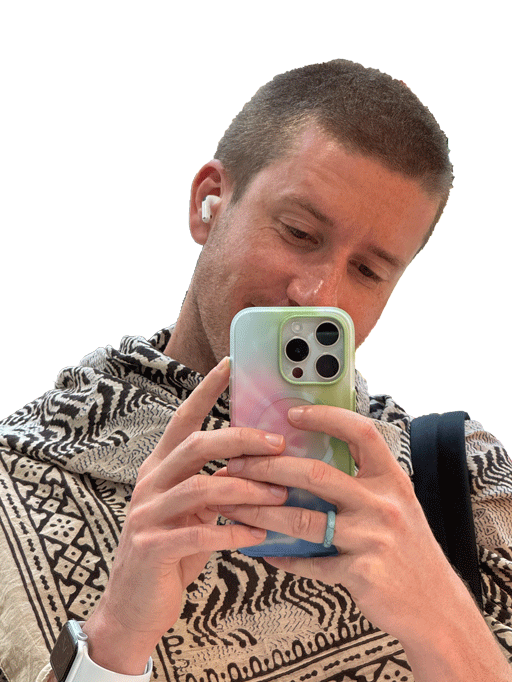
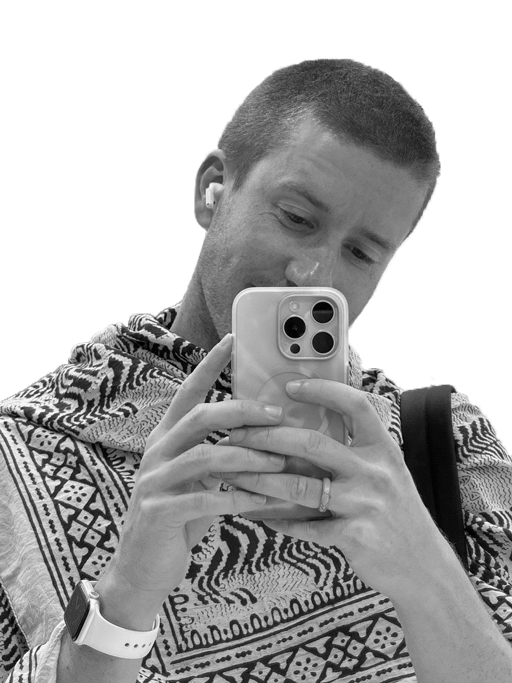
cleaned up dithering mixing

diff --git a/app/DitheredImage.tsx b/app/DitheredImage.tsx
@@ -8,6 +8,8 @@ import vertexShader from './shaders/dithered.vert'
 interface DitheredMeshProps {
   /** The URL of the image to be dithered. */
   imageUrl: string
+  /** The URL of the mask image to be used as the alpha channel. */
+  maskUrl: string
   /** The color used for dark pixels in the dithered image. */
   darkColor: string
   /** The color used for light pixels in the dithered image. */
@@ -29,6 +31,7 @@ interface DitheredImageProps extends DitheredMeshProps {
 
 const DitheredImage: React.FC<DitheredImageProps> = ({
   imageUrl,
+  maskUrl,
   darkColor,
   lightColor,
   maxWidth,
@@ -75,6 +78,7 @@ const DitheredImage: React.FC<DitheredImageProps> = ({
       >
         <DitheredMesh
           imageUrl={imageUrl}
+          maskUrl={maskUrl}
           darkColor={darkColor}
           lightColor={lightColor}
           pixelSize={pixelSize}
@@ -89,6 +93,7 @@ const DitheredImage: React.FC<DitheredImageProps> = ({
 
 const DitheredMesh: React.FC<DitheredMeshProps> = ({
   imageUrl,
+  maskUrl,
   darkColor,
   lightColor,
   pixelSize,
@@ -98,18 +103,20 @@ const DitheredMesh: React.FC<DitheredMeshProps> = ({
 }) => {
   const mesh = React.useRef<THREE.Mesh>(null)
   const { size } = useThree()
-  const texture = useLoader(THREE.TextureLoader, imageUrl) as THREE.Texture
+  const image = useLoader(THREE.TextureLoader, imageUrl) as THREE.Texture
   const bayerTexture = useLoader(
     THREE.TextureLoader,
     '/bayer16.png',
   ) as THREE.Texture
+  const maskTexture = useLoader(THREE.TextureLoader, maskUrl) as THREE.Texture // {{ edit_2 }}
   const materialRef = React.useRef<THREE.ShaderMaterial | null>(null)
 
   React.useEffect(() => {
     if (mesh.current) {
       const material = new THREE.ShaderMaterial({
         uniforms: {
-          tDiffuse: { value: texture },
+          tImage: { value: image },
+          tMask: { value: maskTexture }, // {{ edit_3 }}
           tBayer: { value: bayerTexture },
           darkColor: {
             value: new THREE.Color(darkColor).convertLinearToSRGB(),
@@ -120,7 +127,7 @@ const DitheredMesh: React.FC<DitheredMeshProps> = ({
           resolution: { value: new THREE.Vector2(size.width, size.height) },
           pixelSize: { value: pixelSize },
           textureSize: {
-            value: new THREE.Vector2(texture.image.width, texture.image.height),
+            value: new THREE.Vector2(image.image.width, image.image.height),
           },
           gammaCorrection: { value: gammaCorrection },
           toneMapLow: { value: THREE.MathUtils.clamp(toneMapLow, 0.0, 1.0) },
@@ -139,11 +146,12 @@ const DitheredMesh: React.FC<DitheredMeshProps> = ({
       mesh.current.material = material
       materialRef.current = material
 
-      const aspectRatio = texture.image.height / texture.image.width
+      const aspectRatio = image.image.height / image.image.width
       mesh.current.scale.set(size.width, size.width * aspectRatio, 1)
     }
   }, [
-    texture,
+    image,
+    maskTexture, // {{ edit_4 }}
     bayerTexture,
     darkColor,
     lightColor,
@@ -170,7 +178,7 @@ const DitheredMesh: React.FC<DitheredMeshProps> = ({
           size.height,
         )
 
-        const aspectRatio = texture.image.height / texture.image.width
+        const aspectRatio = image.image.height / image.image.width
         mesh.current.scale.set(size.width, size.width * aspectRatio, 1)
       }
     }
@@ -178,7 +186,7 @@ const DitheredMesh: React.FC<DitheredMeshProps> = ({
     handleResize()
     window.addEventListener('resize', handleResize)
     return () => window.removeEventListener('resize', handleResize)
-  }, [size, texture])
+  }, [size, image])
 
   return (
     <mesh ref={mesh} position={[0, 0, 0]}>

diff --git a/app/About.tsx b/app/About.tsx
@@ -39,11 +39,12 @@ export const About: React.FunctionComponent<{ id: Section }> = ({ id }) => {
             direction='column'
           >
             <DitheredImage
-              imageUrl='/alec-colorful.png'
+              imageUrl='/alec.jpg'
+              maskUrl='/alec-mask.png'
               darkColor='#285EF6'
               lightColor='#F2EBE2'
               maxWidth={352}
-              pixelSize={2}
+              pixelSize={1}
               gammaCorrection={0.925}
               toneMapLow={0.075}
               toneMapHigh={0.75}
